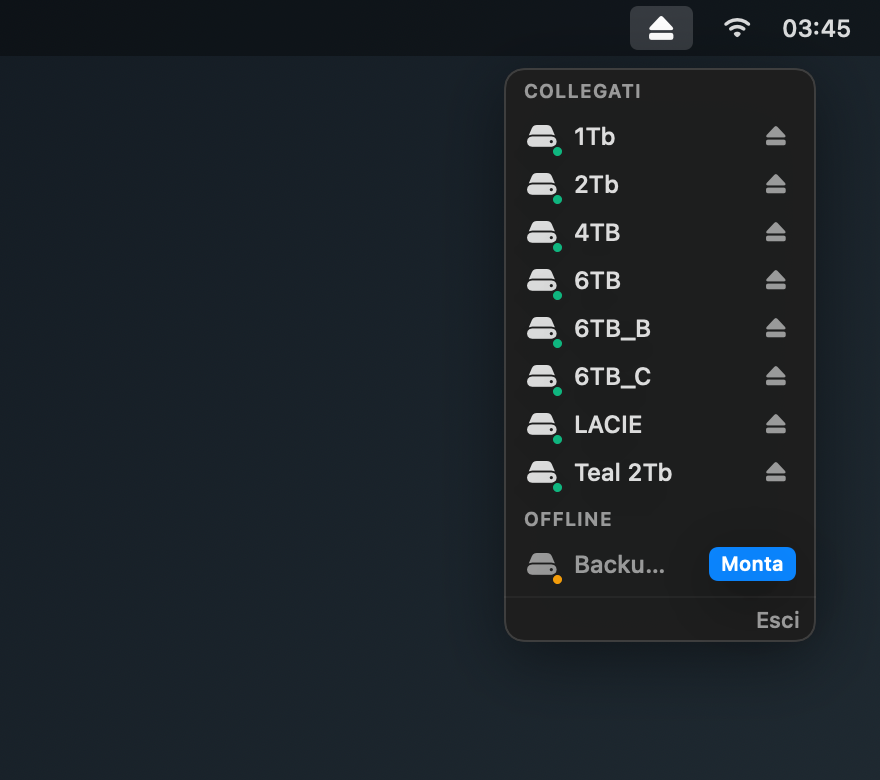
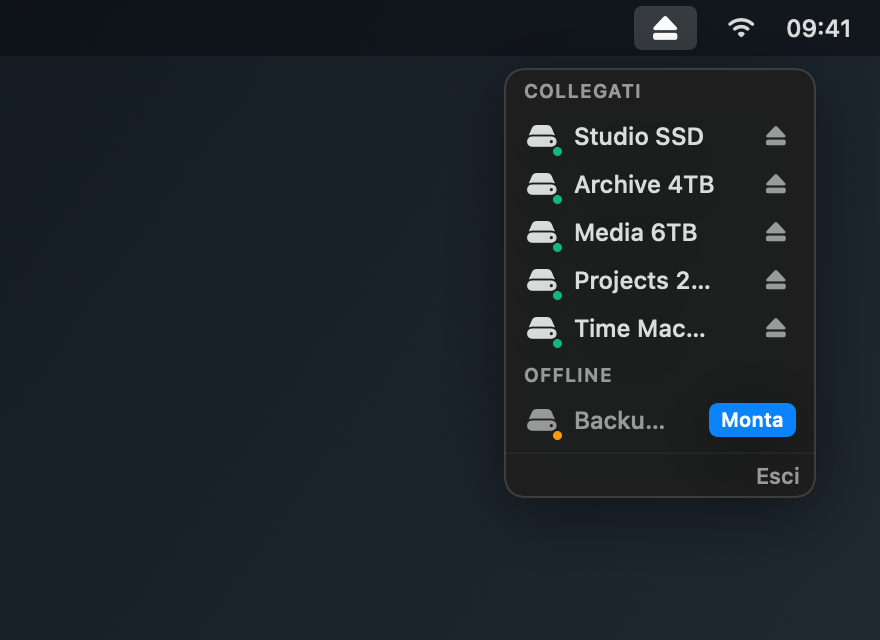
docs: simplify README and use simulated disk names in preview

diff --git a/README.md b/README.md
@@ -6,39 +6,18 @@
 
 ## English
 
-Minimal native macOS menu bar utility to view and manage connected and offline external drives in one click. Inspired by Semulov and built from scratch in Swift & `DiskArbitration`.
+A simple macOS menu bar app to mount and eject your disks. Open a connected disk in Finder, eject it, or mount offline disks in one click.
 
-### [Download DMG — macOS 14+](https://github.com/marcovernetto-lgtm/Mount/releases/download/v1.0.0/Mount-1.0.0.dmg)
+### [Download DMG](https://github.com/marcovernetto-lgtm/Mount/releases/download/v1.0.0/Mount-1.0.0.dmg)
 
 Open the DMG and drag **Mount → Applications**.
-
-- **Connected drives**: click a drive to open it in Finder, or click the eject icon to safely eject it.
-- **Offline drives**: volumes that are still physically connected but unmounted appear under **Offline** with a one-click **Monta** button.
-- **Zero clutter**: hides internal drives and system partitions (`EFI`, `Recovery`, `Preboot`, `VM`).
-- **Real-time & lightweight**: uses `DiskArbitration` events (zero polling) and registers automatically at login.
 
 ---
 
 ## Italiano
 
-Utility nativa e minimalista per la barra dei menu di macOS per vedere e gestire con un click i dischi esterni collegati e quelli offline. Ispirata a Semulov e ricostruita da zero in Swift con `DiskArbitration`.
+Una semplice app nella barra dei menu di macOS per montare e smontare i tuoi dischi. Apri un disco collegato nel Finder, espellilo o rimonta i dischi offline con un click.
 
-### [Scarica DMG — macOS 14+](https://github.com/marcovernetto-lgtm/Mount/releases/download/v1.0.0/Mount-1.0.0.dmg)
+### [Scarica DMG](https://github.com/marcovernetto-lgtm/Mount/releases/download/v1.0.0/Mount-1.0.0.dmg)
 
 Apri il DMG e trascina **Mount → Applicazioni**.
-
-- **Dischi collegati**: clicca un disco per aprirlo nel Finder, oppure premi l'icona di espulsione per espellerlo in sicurezza.
-- **Dischi offline**: i volumi ancora connessi fisicamente ma smontati compaiono in **Offline** con il pulsante **Monta**.
-- **Zero rumore**: nasconde automaticamente dischi interni e partizioni di sistema (`EFI`, `Recovery`, `Preboot`, `VM`).
-- **Leggera e in tempo reale**: basata su eventi `DiskArbitration` (zero polling) e con avvio automatico al login.
-
----
-
-## Build from Source
-
-```bash
-swift test
-./build.sh
-```
-
-Generates `build/Mount.app` and `build/Mount-1.0.0.dmg`.
